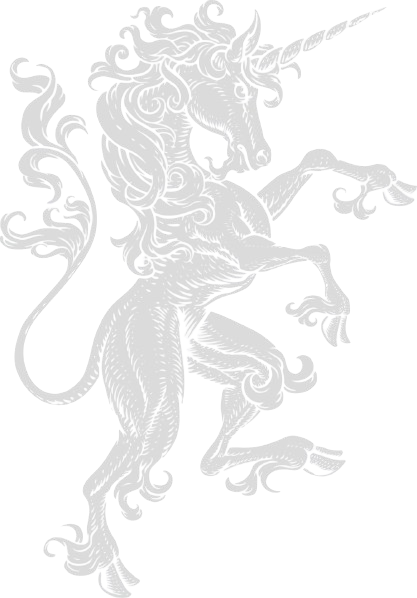
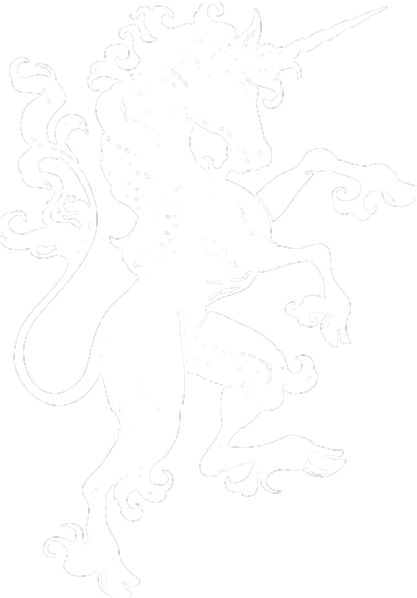
updates

Changed region(s): [[0.0, 0.0, 0.9976, 1.0], [0.0312, 0.3311, 0.0624, 0.3612]]

diff --git a/src/components/HeroSection.jsx b/src/components/HeroSection.jsx
@@ -13,7 +13,7 @@ const HeroSection = () => {
           <img
             src={leftHorse}
             alt=""
-            className="absolute w-7/12 top-1/2 transform -translate-y-1/2 left-0 md:left-[200px]"
+            className="absolute w-7/12 brightness-200 top-1/2 transform -translate-y-1/2 left-0 md:left-[200px]"
           />
           <div className="flex flex-col md:pt-[200px] items-center p-8 md:p-16">
             <h2 className="uppercase text-white text-3xl md:text-5xl z-10 bg-[#f4cec9] py-2 px-4">
